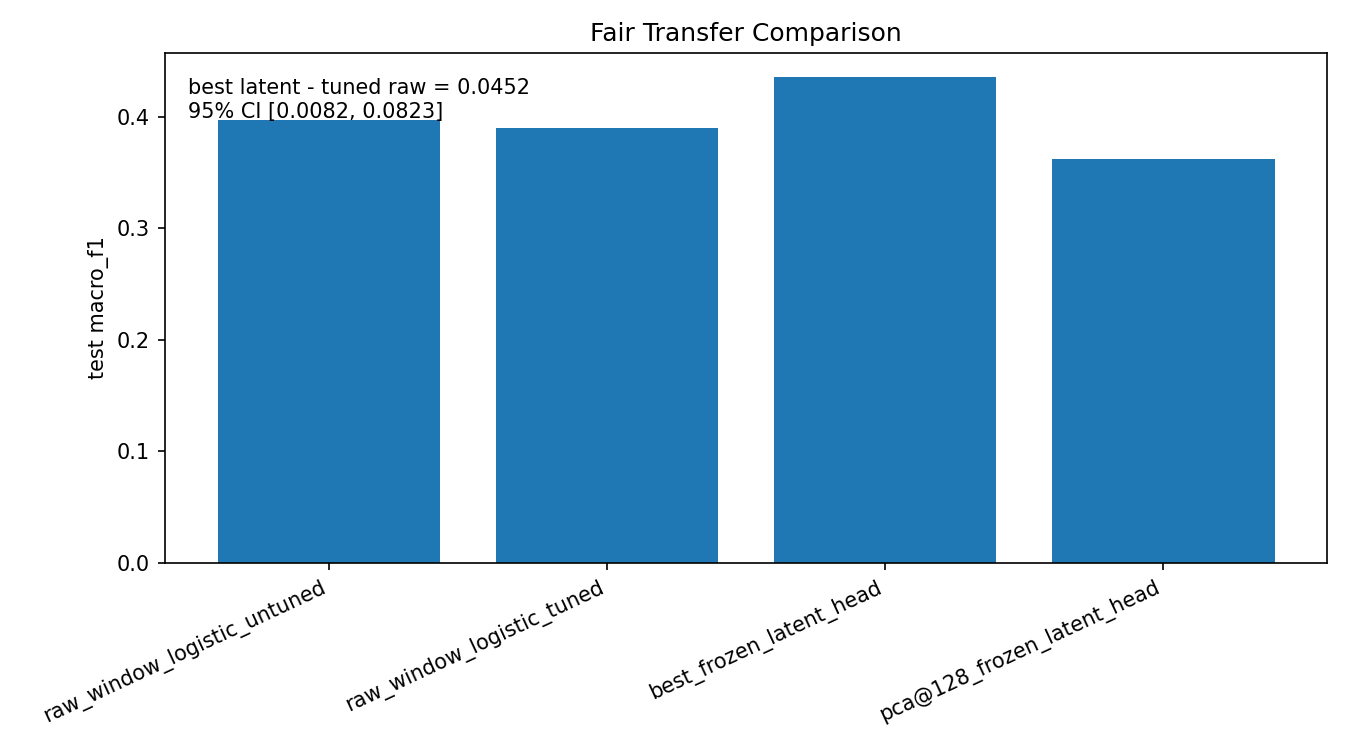
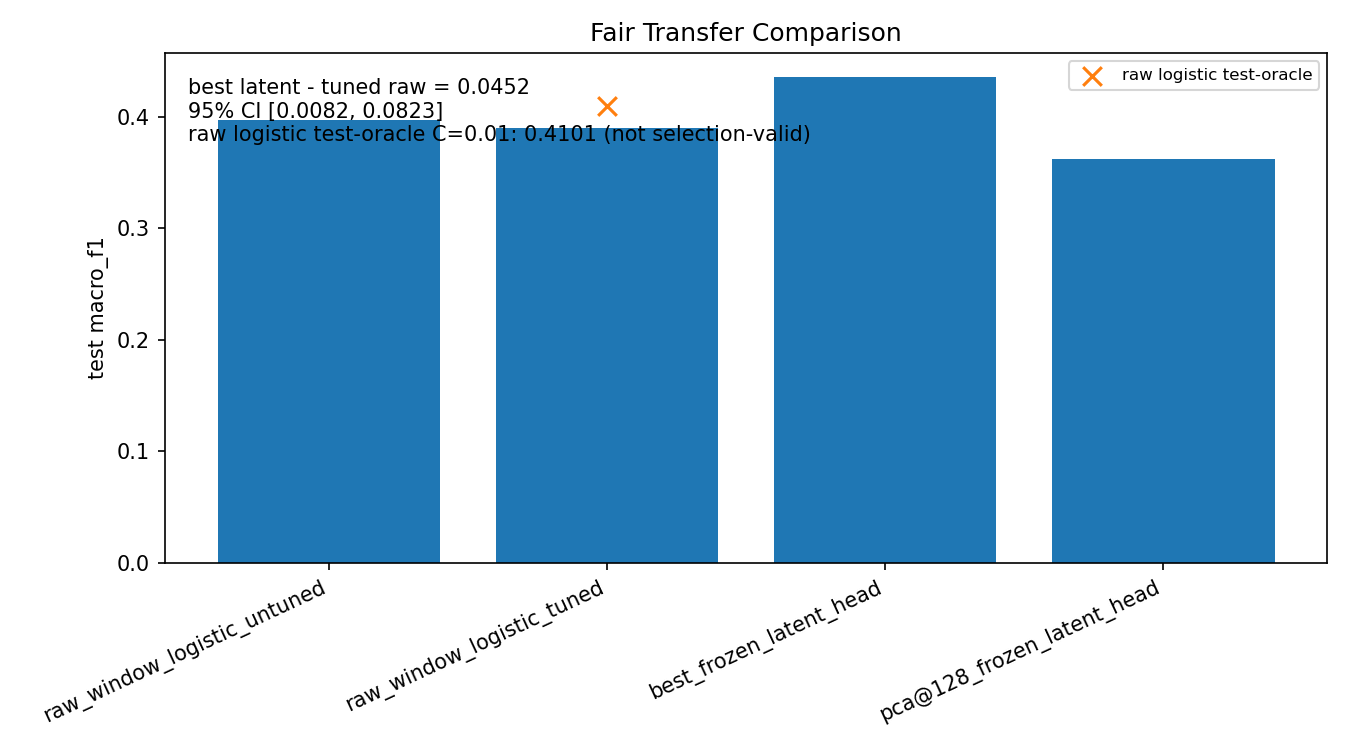
step8: document raw logistic oracle reference

Changed region(s): [[0.1244, 0.1227, 0.5911, 0.2147], [0.7778, 0.092, 0.9956, 0.1227]]

diff --git a/scripts/05_fairness_robustness.py b/scripts/05_fairness_robustness.py
@@ -233,12 +233,15 @@ def fit_raw_logistic_grid(
 
 def build_fair_transfer_comparison(
     step5_metrics: pd.DataFrame,
+    raw_grid: pd.DataFrame,
     raw_tuned_metrics: pd.DataFrame,
     step7_latent_metrics: pd.DataFrame,
     c_grid_text: str,
 ) -> Tuple[pd.DataFrame, str]:
     test_latents = step7_latent_metrics[step7_latent_metrics["split"] == "test"].copy()
     best_variant = str(test_latents.sort_values("macro_f1", ascending=False).iloc[0]["representation_variant"])
+    oracle = raw_grid[raw_grid["split"] == "test"].sort_values("macro_f1", ascending=False).head(1).copy()
+    oracle["variant"] = "raw_window_logistic_test_oracle"
     variants = {
         "majority": {
             "source": "raw_window_baseline",
@@ -271,6 +274,16 @@ def build_fair_transfer_comparison(
             "selection_metric": "val_macro_f1_tie_mcc_log_loss",
             "selection_basis": "selected_by_val_macro_f1_tie_mcc_log_loss",
             "rows": raw_tuned_metrics.assign(variant="raw_window_logistic_tuned"),
+        },
+        "raw_window_logistic_test_oracle": {
+            "source": "raw_window_oracle_reference",
+            "feature_source": "raw_window_flattened",
+            "uses_validation_tuning": False,
+            "tuning_grid": c_grid_text,
+            "selected_C": float(oracle["C"].iloc[0]),
+            "selection_metric": "test_macro_f1_oracle_not_selection_valid",
+            "selection_basis": "posthoc_best_test_macro_f1_from_raw_logistic_grid",
+            "rows": oracle,
         },
         "best_frozen_latent_head": {
             "source": "frozen_latent_head",
@@ -538,6 +551,7 @@ def build_final_claim_table(
         (bootstrap["comparison"] == "best_frozen_latent_head_vs_raw_window_logistic_tuned")
         & (bootstrap["metric"] == "macro_f1")
     ].iloc[0]
+    oracle_row = test.loc["raw_window_logistic_test_oracle"]
     if best_vs_tuned > 0 and float(c3_boot["ci_2_5"]) > 0:
         c3_status = "supported"
     elif best_vs_tuned > 0:
@@ -591,7 +605,11 @@ def build_final_claim_table(
             "metric_or_check": "delta_macro_f1_vs_raw_tuned and bootstrap ci_2_5",
             "result": f"delta={best_vs_tuned:.6f}; ci_2_5={float(c3_boot['ci_2_5']):.6f}",
             "status": c3_status,
-            "caveat": "supported if delta > 0 and bootstrap ci_2_5 > 0; partially_supported if delta > 0 but ci includes 0.",
+            "caveat": (
+                "The tuned raw control is selected by validation macro-F1. "
+                f"The raw-grid test-oracle point C={float(oracle_row['selected_C']):g} reaches test macro-F1 {float(oracle_row['macro_f1']):.4f} "
+                "but is post hoc and remains below the best frozen latent head."
+            ),
         },
         {
             "claim_id": "C4",
@@ -655,10 +673,15 @@ def plot_fair_transfer(fair: pd.DataFrame, bootstrap: pd.DataFrame, fig_path: Pa
         (bootstrap["comparison"] == "best_frozen_latent_head_vs_raw_window_logistic_tuned")
         & (bootstrap["metric"] == "macro_f1")
     ].iloc[0]
+    oracle = fair[(fair["split"] == "test") & (fair["variant"] == "raw_window_logistic_test_oracle")].iloc[0]
+    plt.scatter([1], [oracle["macro_f1"]], marker="x", s=80, label="raw logistic test-oracle")
+    plt.legend(fontsize=8)
     plt.text(
         0.02,
         0.95,
-        f"best latent - tuned raw = {boot['delta_observed']:.4f}\n95% CI [{boot['ci_2_5']:.4f}, {boot['ci_97_5']:.4f}]",
+        f"best latent - tuned raw = {boot['delta_observed']:.4f}\n"
+        f"95% CI [{boot['ci_2_5']:.4f}, {boot['ci_97_5']:.4f}]\n"
+        f"raw logistic test-oracle C={oracle['selected_C']:g}: {oracle['macro_f1']:.4f} (not selection-valid)",
         transform=plt.gca().transAxes,
         va="top",
     )
@@ -742,6 +765,7 @@ def write_summary(
     test = fair[fair["split"] == "test"].set_index("variant")
     raw_tuned = test.loc["raw_window_logistic_tuned"]
     raw_untuned = test.loc["raw_window_logistic_untuned"]
+    raw_oracle = test.loc["raw_window_logistic_test_oracle"]
     best = test.loc["best_frozen_latent_head"]
     delta = float(best["macro_f1"] - raw_tuned["macro_f1"])
     val_macro = float(grid[(grid["C"] == selected_c) & (grid["split"] == "val")]["macro_f1"].iloc[0])
@@ -773,13 +797,16 @@ def write_summary(
         f"- test macro-F1 at selected C: `{raw_tuned['macro_f1']:.6f}`",
         f"- untuned Step 5 raw logistic test macro-F1: `{raw_untuned['macro_f1']:.6f}`",
         f"- tuned raw-window logistic beats untuned raw-window logistic: `{bool(raw_tuned['macro_f1'] > raw_untuned['macro_f1'])}`",
+        f"- raw-window logistic test-oracle best C: `{raw_oracle['selected_C']:g}` with test macro-F1 `{raw_oracle['macro_f1']:.6f}`; this is not selection-valid.",
         "",
         "## Fair Transfer Comparison",
         f"- best frozen latent head test macro-F1: `{best['macro_f1']:.6f}`",
         f"- tuned raw-window logistic test macro-F1: `{raw_tuned['macro_f1']:.6f}`",
         f"- delta: `{delta:.6f}`",
         f"- best frozen latent head still beats tuned raw-window logistic: `{bool(delta > 0)}`",
+        f"- best frozen latent head also remains above the raw-window logistic test-oracle point by `{float(best['macro_f1'] - raw_oracle['macro_f1']):.6f}` macro-F1.",
         "- best_frozen_latent_head is selected post hoc from Step 7 test macro-F1, so the paired bootstrap comparison is descriptive rather than a fully pre-registered confirmatory test.",
+        "- The raw-window logistic grid contains a test-oracle best point at C=0.01 with test macro-F1 0.4101. This is not used as the selected tuned baseline because C is selected by validation macro-F1, but it remains below the post hoc best frozen latent head at 0.4355.",
         "",
         "## Paired Bootstrap Delta",
         f"- best latent vs tuned raw logistic macro-F1 delta: `{boot['delta_observed']:.6f}`",
@@ -886,7 +913,7 @@ def main() -> int:
         selection_metric=args.selection_metric,
     )
     fair, best_latent_variant = build_fair_transfer_comparison(
-        step5_metrics, tuned_metrics, step7_latent_metrics, args.c_grid
+        step5_metrics, grid, tuned_metrics, step7_latent_metrics, args.c_grid
     )
 
     selection_basis = {

diff --git a/execution_log.md b/execution_log.md
@@ -796,16 +796,21 @@ Tuned raw-window logistic control:
 - validation macro-F1: `0.489837`
 - test macro-F1: `0.390383`
 - tuned raw logistic beat untuned Step 5 logistic: `false`
+- raw logistic test-oracle best C: `0.01`
+- raw logistic test-oracle test macro-F1: `0.410148`
+- oracle status: post hoc reference only, not a valid model-selection baseline
 
 Fair comparison result:
 
 - untuned Step 5 logistic test macro-F1: `0.397216`
 - tuned raw-window logistic test macro-F1: `0.390383`
+- raw-window logistic test-oracle macro-F1: `0.410148`
 - best frozen latent head: `last_snapshot_repeat@40`
 - best frozen latent head selection basis: `posthoc_best_test_macro_f1_from_step7`
 - best frozen latent head test macro-F1: `0.435540`
 - pca@128 frozen latent head test macro-F1: `0.362361`
 - best frozen latent head delta vs tuned raw logistic: `0.045157`
+- best frozen latent head delta vs raw logistic test-oracle: `0.025392`
 
 Paired bootstrap result:
 

diff --git a/results/step8_fairness_robustness/summary.md b/results/step8_fairness_robustness/summary.md
@@ -12,13 +12,16 @@
 - test macro-F1 at selected C: `0.390383`
 - untuned Step 5 raw logistic test macro-F1: `0.397216`
 - tuned raw-window logistic beats untuned raw-window logistic: `False`
+- raw-window logistic test-oracle best C: `0.01` with test macro-F1 `0.410148`; this is not selection-valid.
 
 ## Fair Transfer Comparison
 - best frozen latent head test macro-F1: `0.435540`
 - tuned raw-window logistic test macro-F1: `0.390383`
 - delta: `0.045157`
 - best frozen latent head still beats tuned raw-window logistic: `True`
+- best frozen latent head also remains above the raw-window logistic test-oracle point by `0.025392` macro-F1.
 - best_frozen_latent_head is selected post hoc from Step 7 test macro-F1, so the paired bootstrap comparison is descriptive rather than a fully pre-registered confirmatory test.
+- The raw-window logistic grid contains a test-oracle best point at C=0.01 with test macro-F1 0.4101. This is not used as the selected tuned baseline because C is selected by validation macro-F1, but it remains below the post hoc best frozen latent head at 0.4355.
 
 ## Paired Bootstrap Delta
 - best latent vs tuned raw logistic macro-F1 delta: `0.045157`

diff --git a/technical_memo.md b/technical_memo.md
@@ -109,10 +109,13 @@ Fair transfer comparison on the test split:
 | --- | --- | --- | ---: | ---: | ---: |
 | raw_window_logistic_untuned | raw window baseline | fixed Step 5 logistic | 0.3972 | 0.1007 | 0.0068 |
 | raw_window_logistic_tuned | raw window tuned control | val macro-F1, MCC/log-loss tie-break | 0.3904 | 0.0978 | 0.0000 |
+| raw_window_logistic_test_oracle | raw window oracle reference | post hoc best raw-grid test macro-F1 | 0.4101 | 0.1473 | 0.0198 |
 | best_frozen_latent_head | frozen latent head | post hoc best Step 7 test macro-F1 | 0.4355 | 0.2579 | 0.0452 |
 | pca@128_frozen_latent_head | frozen latent head | reconstruction-best test normalized MSE | 0.3624 | 0.1281 | -0.0280 |
 
 The tuned raw-window logistic control selected `C=0.1`. The post hoc best frozen-latent head (`last_snapshot_repeat@40`) remains ahead of both raw-window logistic controls on test macro-F1. Paired bootstrap on the same test samples gives delta `0.0452` for best frozen latent versus tuned raw logistic, with 95% CI `[0.0082, 0.0823]` and `fraction_delta_gt_0=0.9930`.
+
+The raw-window logistic C-grid also contains a test-oracle point at `C=0.01` with test macro-F1 `0.4101`. That value is useful transparency, but it is not a valid model-selection baseline because C was selected after looking at test performance. It remains below the post hoc best frozen-latent head (`0.4355`).
 
 This is still descriptive: `best_frozen_latent_head` is selected post hoc from Step 7 test macro-F1, not pre-registered before looking at test performance.
 

diff --git a/README.md b/README.md
@@ -77,6 +77,7 @@ Artifacts from Step 7 live under:
 Step 8 fairness and robustness snapshot:
 
 - Tuned raw-window logistic control selected `C=0.1` and reached test macro-F1 `0.3904`, below the untuned Step 5 logistic baseline (`0.3972`).
+- The raw-window logistic grid has a post hoc test-oracle point at `C=0.01` with test macro-F1 `0.4101`; this is not selection-valid, and it remains below the best frozen-latent head.
 - The post hoc best frozen-latent head remains `last_snapshot_repeat@40` with test macro-F1 `0.4355`.
 - Paired bootstrap for best frozen-latent head vs tuned raw-window logistic gives macro-F1 delta `0.0452`, 95% CI `[0.0082, 0.0823]`, and `fraction_delta_gt_0=0.9930`.
 - The best frozen-latent head is selected post hoc from Step 7 test macro-F1, so the bootstrap comparison is descriptive rather than a fully pre-registered confirmatory test.